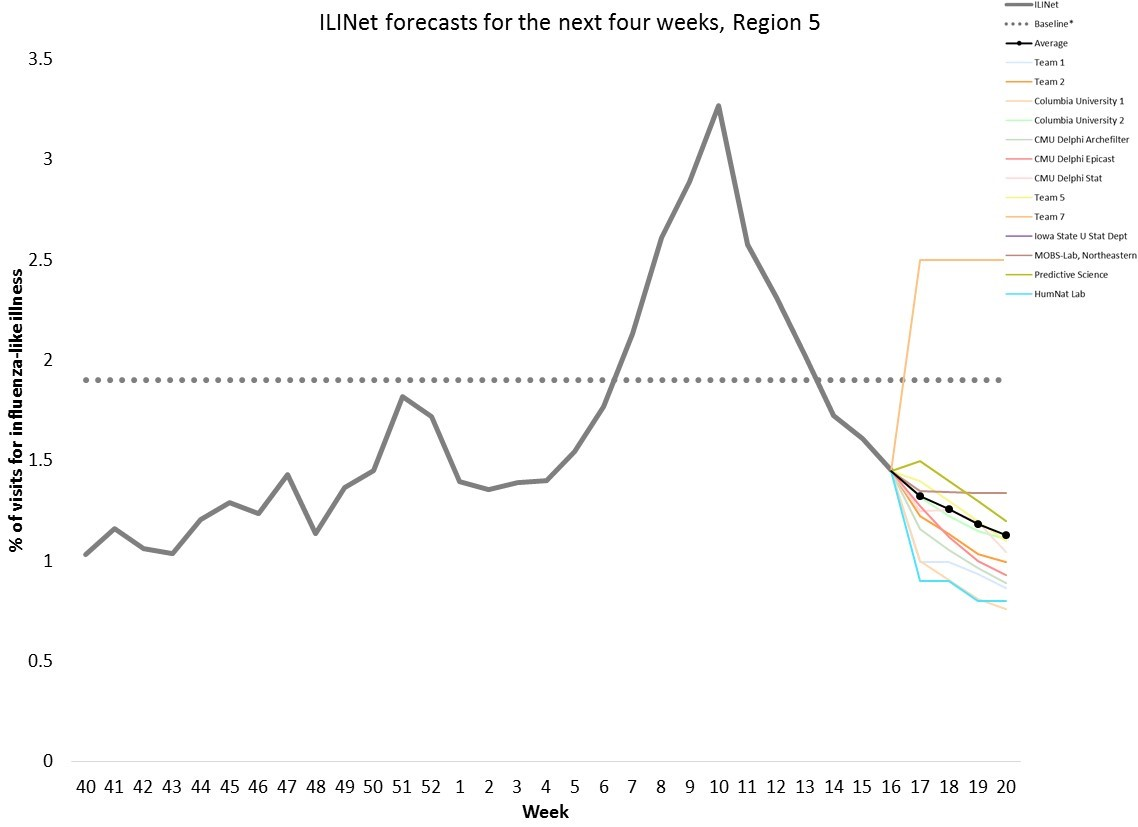
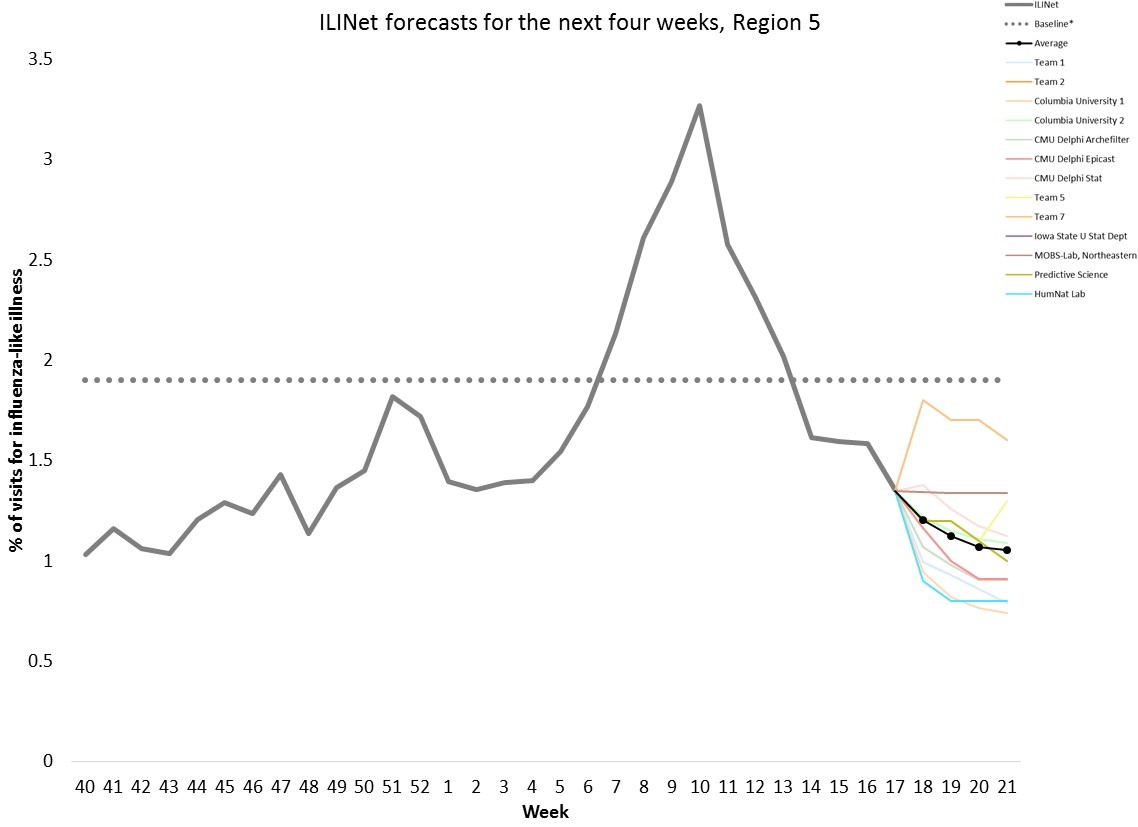
update may 10

diff --git a/flu/forecasts.html b/flu/forecasts.html
@@ -97,7 +97,7 @@
    <div class="row col-xs-12" style="height:10px;"></div>
 </div>-->
 <div class="row">
-   <div><h5>Last update: May 3, 2016</h5></div>
+   <div><h5>Last update: May 10, 2016</h5></div>
 </div>
 
 <ul class="nav nav-tabs nav-justified">
